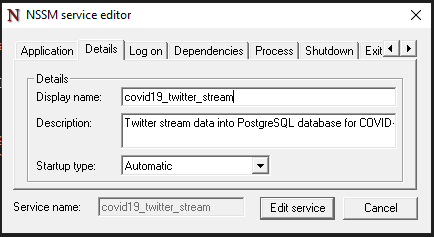
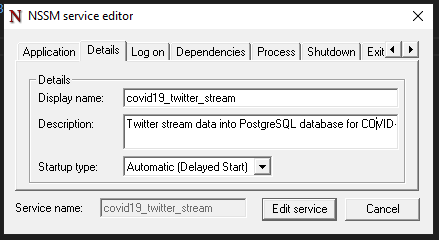
Add delays on start and shutdown; Fix infinite exit loop

Changed region(s): [[0.0, 0.0, 1.0, 1.0], [0.2696, 0.384, 0.5392, 0.443]]

diff --git a/twitter/stream.js b/twitter/stream.js
@@ -20,7 +20,7 @@ EMAIL_TO=
 
 // *** MAIL SETUP ***
 
-var use_email = Boolean(process.env.USE_EMAIL) || false;
+var use_email = (process.env.USE_EMAIL.toLowerCase().trim() == 'true') || false;
 
 // (mail_reference) Reference text to help identify errors
 var reference = `
@@ -74,7 +74,7 @@ options.twitter.params = {
 options.pg.table = 'twitter_stream';
 options.pg.column = 'tweet';
 options.pg.query = 'INSERT INTO $options.pg.table($options.pg.column) VALUES($1);';
-
+console.log(use_email)
 // (info_msg) Create info message object and log info
 console.log('Starting Twitter stream...');
 var info = [
@@ -94,29 +94,36 @@ info.forEach(msg => console.log(`${msg[0]}: ${msg[1]}`));
 
 // (twitter2pg_stream_mail) Send mail that stream has started
 var info_html = '<b>Twitter Stream Parameters</b><br><ul>' + info.map(msg => `<li><b>${msg[0]}</b>: ${msg[1]}</li>`).join('<br>') + '</ul>';
-if (use_email) email.send(info_html, 'START');
+if (use_email) {
+	email.send(info_html, 'START');
+}
 
 // (twitter2pg_stream) Stream tweets into PostgreSQL table
 var stream = twitter2pg(options);
-stream.on('error', async function (err) {
+stream.on('error', function (err) {
 	console.error(err.message);
 	var details = `${err.message}<br><br>${err.stack}`;
-	if (use_email) await email.send(info_html + '<br><b>Error</b><br><br>' + details + '<br><br>', 'ERROR');
+	if (use_email) {
+		email.send(info_html + '<br><b>Error</b><br><br>' + details + '<br><br>', 'ERROR');
+	}
 	stream.destroy(() => {
 		process.exit(1);
 	});
 });
 
 // (twitter2pg_stream_exit) Exit function
-async function on_exit(code) {
+function on_exit(code) {
 	var details = `Twitter stream was stopped with exit code ${code}!`;
 	console.log(details);
-	if (use_email) await email.send(info_html + '<br><b>Exit</b><br><br>' + details + '<br><br>', 'STOP');
-	stream.destroy();
+	if (use_email) {
+		email.send(info_html + '<br><b>Exit</b><br><br>' + details + '<br><br>', 'STOP');
+	}
+	stream.destroy(() => {
+		process.exit(code);
+	});
 }
 
 // (twitter2pg_stream_exit_process) Apply exit function to different conditions
-process.on('beforeExit', on_exit);
 process.on('exit', on_exit);
 process.on('SIGINT', on_exit);
 process.on('SIGUSR1', on_exit);

diff --git a/twitter/README.md b/twitter/README.md
@@ -73,21 +73,34 @@ Next, set the following settings in the `Details` tab:
 
 * Change `Display Name` to `covid19_twitter_stream`
 * Change `Description` to be `Twitter stream data into PostgreSQL database for COVID-19 tweets`
+* Set `Startup type` to `Automatic (Delayed Start)`
 
 ![Example of Details settings](img/nssm_details.PNG)
 
 For the `Log on` tab:
 
-* Check `Allow service to interact with Desktop`
+* Select the `This account` bullet
+* Set `This account` to `GGL\ggladmin`
+* Input the `password` twice in the two boxes
 
 ![Example of Logon settings](img/nssm_login.PNG)
 
 In the `Exit actions` tab, under `Restart`:
 
 * Choose `Restart application`
+* Set the `Delay restart if appication runs for less than` to `15000`
 * Set the `Delay restart by` to `15000`
 
 ![Example of Exit settings](img/nssm_exit.PNG)
+
+For the `Shutdown` tab:
+
+* Set `Generate Ctrl+c` to `30000`
+* Set `WM_CLOSE to windows` to `30000`
+* Set `WN_QUIT to threads` to `30000`
+* Keep `Terminate process` and `Kill process tree` checked
+
+![Example of Shutdown settings](img/nssm_shutdown.PNG)
 
 Finally, in the `I/O` tab:
 
